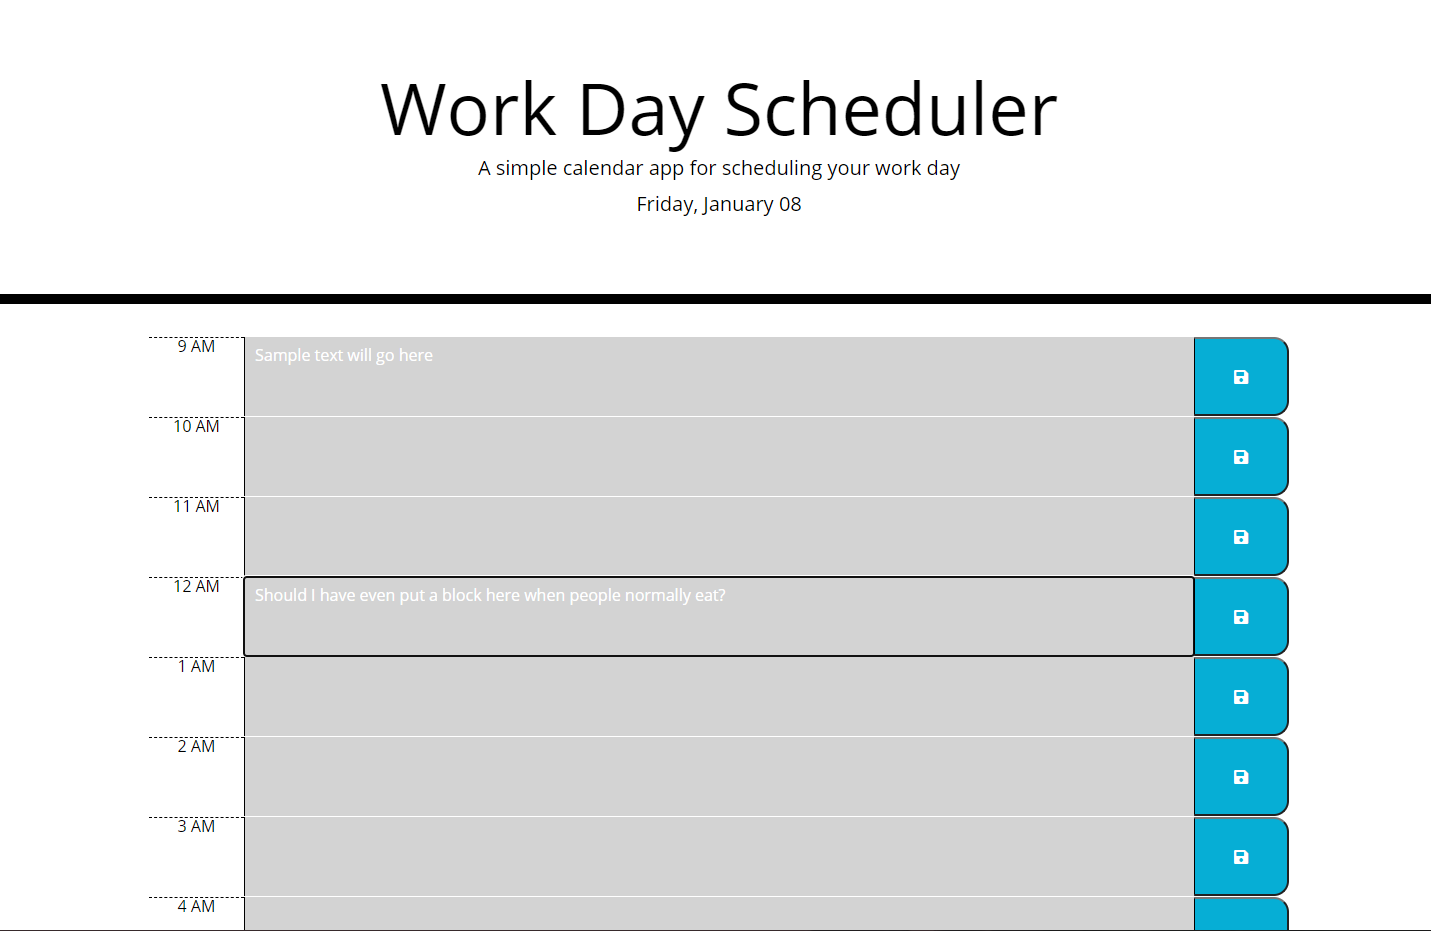
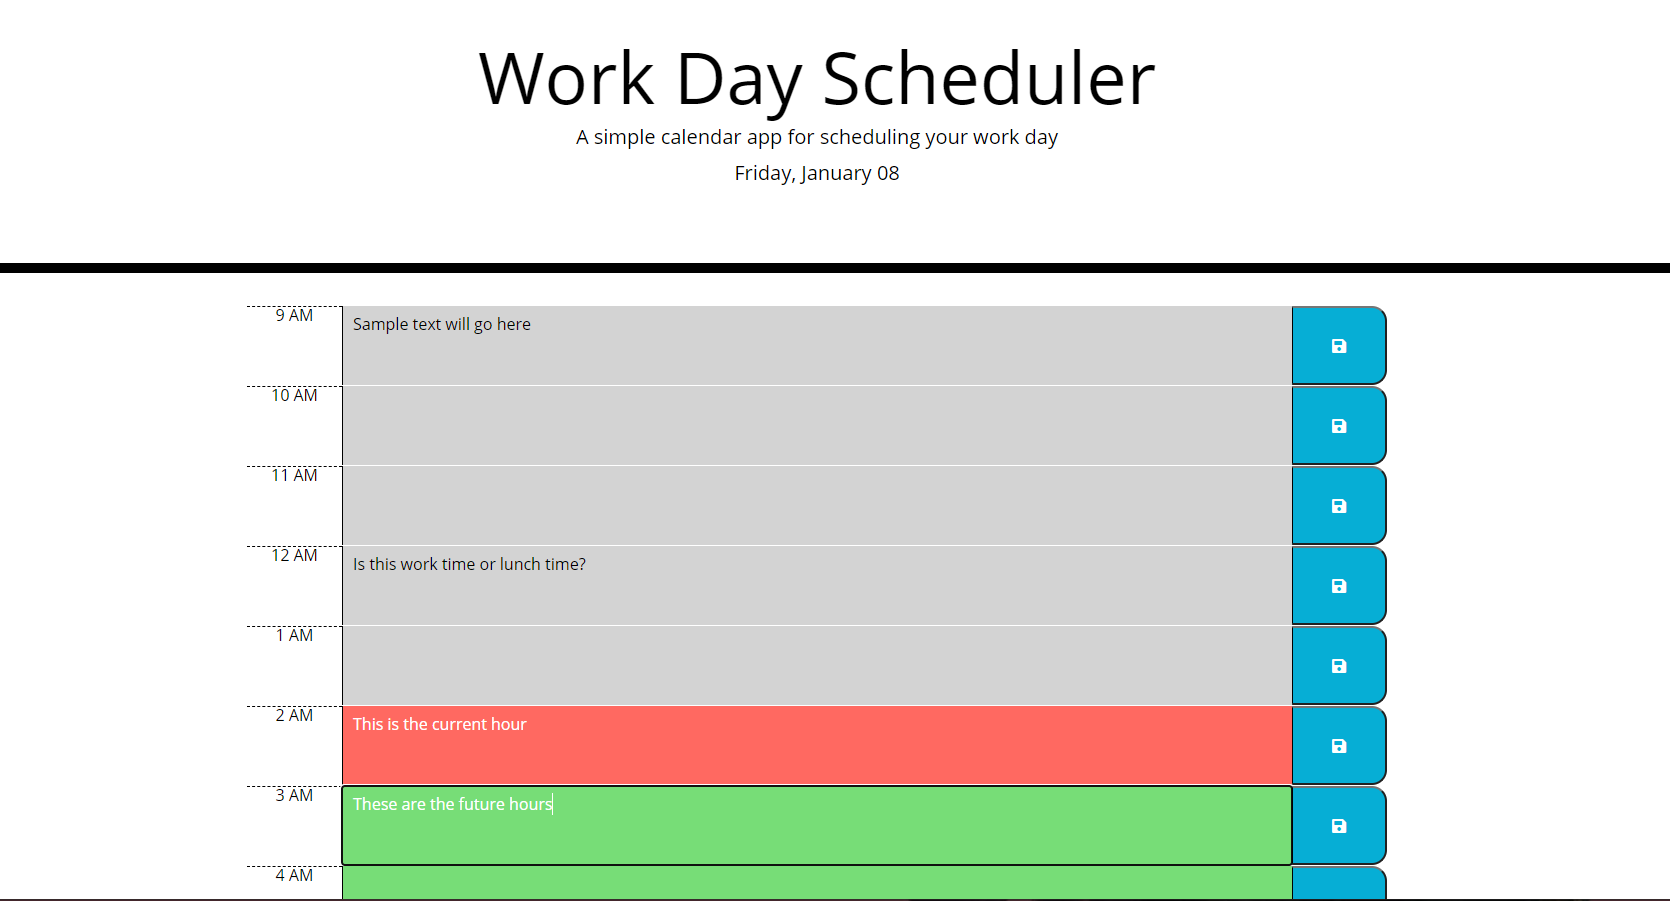
updated visibility

Changed region(s): [[0.0, 0.2797, 1.0, 1.0], [0.246, 0.0622, 0.7379, 0.2486]]

diff --git a/assets/style/style.css b/assets/style/style.css
@@ -52,7 +52,7 @@ body {
   
   .past {
     background-color: #d3d3d3;
-    color: white;
+    color: black;
   }
   
   .present {
